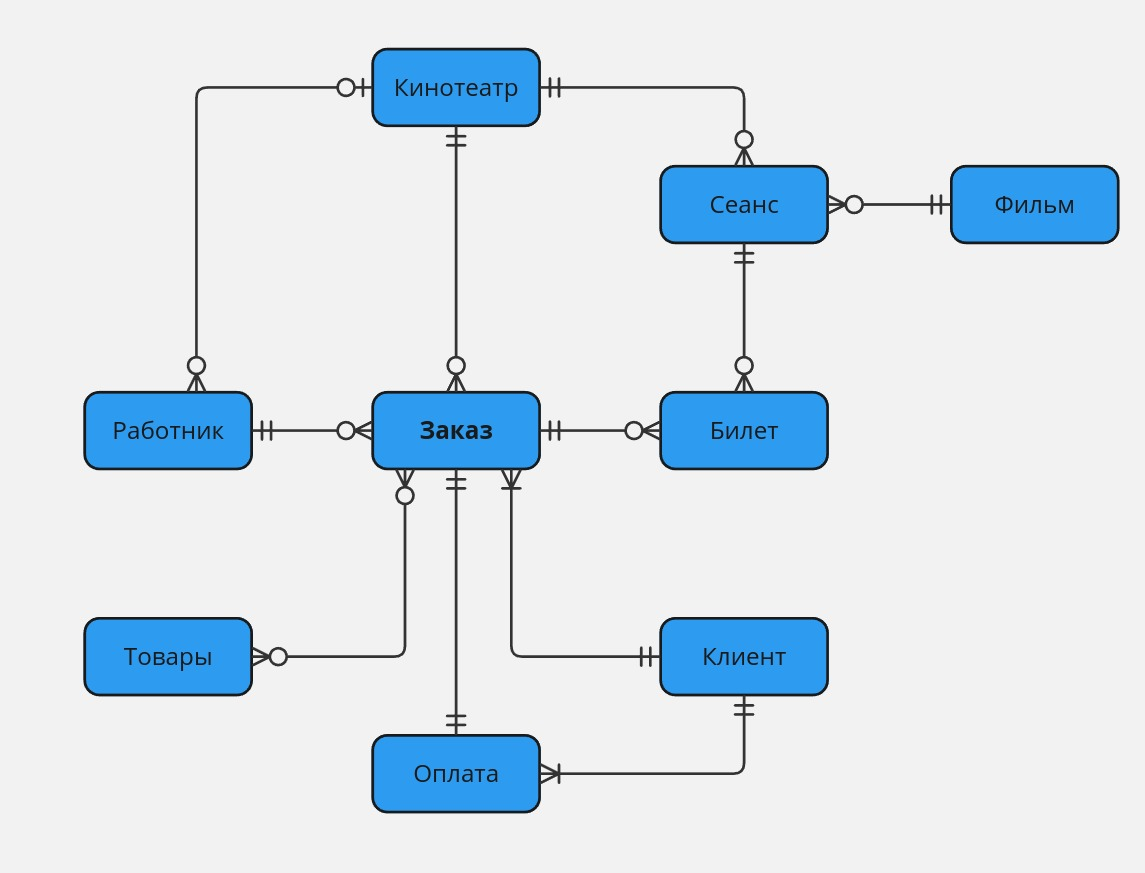
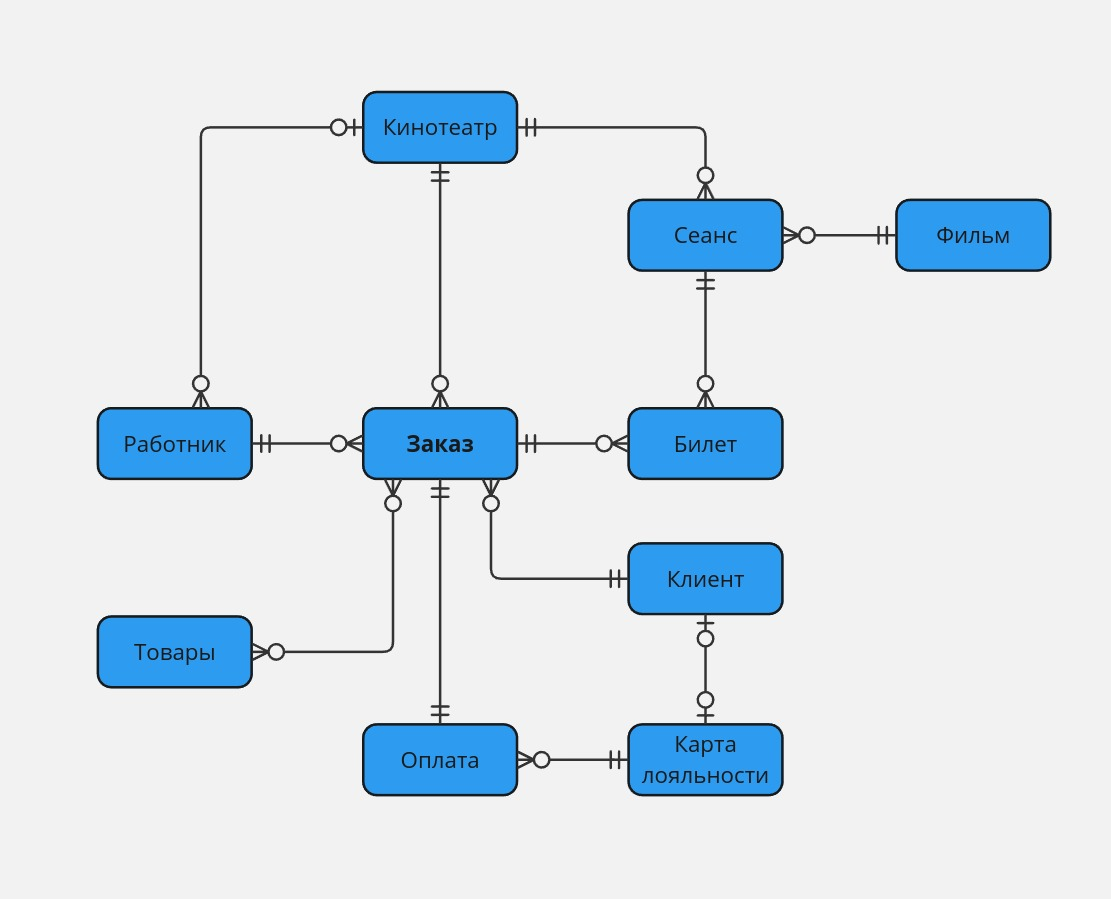
Add loyalty card to model

Changed region(s): [[0.0612, 0.0309, 0.9793, 0.5567], [0.2754, 0.4021, 0.7345, 0.9588], [0.0612, 0.6804, 0.3672, 0.8041]]

diff --git a/README.md b/README.md
@@ -16,6 +16,8 @@
 
 Клиент - человек, который что-то купил на кассе. Сущность нужна, чтобы следить за клиентской базой
 
+Карта лояльности - клиенты хотят бонусы, на картах бонусы есть. Сущность нужна, чтобы хранить бонусы клиентов
+
 Товары - попкорн, напитки, начос и т.д. (все, что можно для кайфа купить перед сеансом). Сущность нужна, чтобы отслеживать популярность каждого товара
 
 Заказ - человек подошел на кассу, купил билеты и еду, получился заказ. Сущность нужна, чтобы связать все остальное воедино
